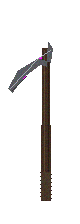
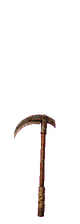
Gravemark: every class moves on the rig — five parts sheets, five weapons and the revenant installed
The slicer keys the pink card as well as the magenta and only attaches
small fragments to their nearest piece instead of merging overlapping
boxes; fit-figure maps the revenant to actor/. All 55 parts placed on
first slice; heroes draw in rig mode with the painted weapons in hand.

Claude-Session: https://claude.ai/code/session_01L4YgmXtn1U1rMqPTfw2Rbr

Changed region(s): [[0.1, 0.1875, 0.7, 0.9688]]

diff --git a/gravemark/src/00-util.js b/gravemark/src/00-util.js
@@ -5,7 +5,7 @@
 
 var GM = window.GM || (window.GM = {});
 
-GM.BUILD = "b011-realms";
+GM.BUILD = "b012-rig";
 GM.TITLE = "Gravemark";
 
 /* ---------- RNG ---------------------------------------------------------

diff --git a/gravemark/tools/slice-parts.py b/gravemark/tools/slice-parts.py
@@ -36,8 +36,12 @@ def manifest():
     return json.loads(out.stdout)
 
 def is_bg(px, tol=60):
+    """Magenta, or the deeper pink card a generator likes to lay the pieces on
+    inside the magenta (this delivery: #e9017e). Both are far from any paint
+    the figures use: reds have no blue, purples have green."""
     r, g, b = px[:3]
-    return r > 255 - tol and g < tol and b > 255 - tol
+    if r > 255 - tol and g < tol and b > 255 - tol: return True
+    return r > 190 and g < 60 and b > 100
 
 def components(img, min_area=120):
     """Connected components of non-magenta pixels (4-neighbour), as bboxes."""
@@ -65,20 +69,26 @@ def components(img, min_area=120):
     return comps
 
 def merge_close(comps, gap=6):
-    """A boot sole or a hand can split off its limb by a strip of matte;
-    merge boxes whose gaps are smaller than any real spacing on the sheet."""
-    changed = True
-    while changed:
-        changed = False
-        for i in range(len(comps)):
-            for j in range(i + 1, len(comps)):
-                a, b = comps[i]["box"], comps[j]["box"]
-                if a[0] - gap <= b[2] and b[0] - gap <= a[2] and a[1] - gap <= b[3] and b[1] - gap <= a[3]:
-                    comps[i] = {"box": (min(a[0], b[0]), min(a[1], b[1]), max(a[2], b[2]), max(a[3], b[3])),
-                                "area": comps[i]["area"] + comps[j]["area"]}
-                    del comps[j]; changed = True; break
-            if changed: break
-    return comps
+    """A boot sole or a fingertip can split off its limb by a strip of matte.
+    Attach every SMALL component to the nearest big one. Big pieces are never
+    merged with each other: on a tightly packed sheet the bounding boxes of
+    neighbouring pieces overlap even when their paint does not, and merging on
+    box overlap turned a whole sheet into one piece."""
+    if not comps: return comps
+    biggest = max(c["area"] for c in comps)
+    big = [c for c in comps if c["area"] >= biggest * 0.10]
+    small = [c for c in comps if c["area"] < biggest * 0.10]
+    def dist(a, b):
+        dx = max(0, max(a[0], b[0]) - min(a[2], b[2]))
+        dy = max(0, max(a[1], b[1]) - min(a[3], b[3]))
+        return dx + dy
+    for sm in small:
+        best = min(big, key=lambda c: dist(c["box"], sm["box"]))
+        if dist(best["box"], sm["box"]) > 40: continue      # stray speck: drop it
+        a, b = best["box"], sm["box"]
+        best["box"] = (min(a[0], b[0]), min(a[1], b[1]), max(a[2], b[2]), max(a[3], b[3]))
+        best["area"] += sm["area"]
+    return big
 
 def into_rows(comps, rows_wanted):
     """Cluster by vertical centre into the number of rows the layout has."""

diff --git a/gravemark/tools/fit-figure.py b/gravemark/tools/fit-figure.py
@@ -29,6 +29,7 @@ def key_for(name):
     base = os.path.splitext(os.path.basename(name))[0]
     if base.startswith("look-"): return "actor/" + base
     if base.startswith("b_"): return "boss/" + base
+    if base.startswith("revenant"): return "actor/" + base
     return "mon/" + base
 
 def fit(img, w, h, feet):

diff --git a/gravemark/README.md b/gravemark/README.md
@@ -177,11 +177,13 @@ out of date. With items gone there are no item icons, rune glyphs, rarity
 frames or paper-doll layers in it; the five **class looks**
 (`actor/look-<class>`, one standing figure each) took their place.
 
-**Current coverage: 159 of 493 painted.** `ART-REMAINING.md` lists the rest.
+**Current coverage: 214 of 493 painted.** `ART-REMAINING.md` lists the rest.
 All twelve bosses, all fifteen monsters, the five class looks, the hero, the
-five weapons and all eighteen backdrops are in, in the new style. Outstanding:
-the rig parts and the UI chrome (which the renderer does not consume yet — the
-UI is CSS).
+five weapons, all eighteen backdrops, the revenant and a full set of rig parts
+for every class are in, in the new style — so every hero now moves limb by
+limb on the skeleton. Outstanding: rig parts for the monsters and bosses (they
+still animate as whole paintings), and the UI chrome (which the renderer does
+not consume yet — the UI is CSS).
 
 Backdrops are drawn with `GM.drawCover`, scaled to fill the box and cropped
 rather than stretched: a 16:9 painting drawn straight into a 3:1 battle panel
@@ -283,9 +285,14 @@ node tools/grok-parts.js > GROK-PARTS.md     # the parts brief, tiered
 proved a generator asked for "only the forearm" crops a rectangle of cloth out
 of the reference — no silhouette, nothing a bone can carry. Asked for a cut-out
 puppet sheet (the figure taken apart, pieces laid out with gaps on magenta) it
-paints real pieces. `tools/slice-parts.py sheet.png hero --out DIR` finds
-the pieces, sorts them into the brief's rows, and places each on its manifest
-canvas with the joint on the pivot; `art-install.py DIR` then installs them.
+paints real pieces — the five class sheets arrived exactly that way and all
+fifty-five parts sliced first time. `tools/slice-parts.py sheet.png <class>
+--out DIR` keys the magenta AND the deeper pink card a generator lays the
+pieces on, finds the pieces (small fragments such as a boot sole attach to
+their nearest big piece; big pieces are never merged with each other, since
+on a packed sheet their boxes overlap even when their paint does not), sorts
+them into the brief's rows, and places each on its manifest canvas with the
+joint on the pivot; `art-install.py DIR` then installs them.
 `GROK-RIG.md` is the current ask. `tools/shot-swing.py . out.png` freezes
 every hero mid-swing on a different weapon for a look.
 

diff --git a/gravemark/ART-REMAINING.md b/gravemark/ART-REMAINING.md
@@ -2,7 +2,7 @@
 
 _Generated by `tools/art-check.py --remaining`. Everything below is either absent or still a placeholder; the game draws its own procedural stand-in for each._
 
-**43 of 493 assets outstanding.**
+**35 of 493 assets outstanding.**
 
 ## UI icons  (15)
 
@@ -40,39 +40,21 @@ _Generated by `tools/art-check.py --remaining`. Everything below is either absen
 | `ui/progress-fill-xp` | 256×32 | — |
 | `ui/progress-track` | 256×32 | — |
 
-## Monsters  (10)
+## Monsters  (8)
 
 | key | size | frames |
 |---|---|---|
 | `mon/ashwalker-attack` | 256×256 | 8 |
 | `mon/ashwalker-death` | 256×256 | 8 |
 | `mon/ashwalker-hit` | 256×256 | 3 |
-| `mon/ashwalker-idle` | 256×256 | 6 |
 | `mon/chill-death` | 256×256 | 8 |
 | `mon/chill-hit` | 256×256 | 3 |
 | `mon/drowned-attack` | 256×256 | 8 |
 | `mon/drowned-death` | 256×256 | 8 |
 | `mon/drowned-hit` | 256×256 | 3 |
-| `mon/drowned-idle` | 256×256 | 6 |
-
-## Hero and revenant  (5)
-
-| key | size | frames |
-|---|---|---|
-| `actor/look-pyre` | 256×256 | — |
-| `actor/look-reaver` | 256×256 | — |
-| `actor/look-sexton` | 256×256 | — |
-| `actor/look-stalker` | 256×256 | — |
-| `actor/look-warden` | 256×256 | — |
 
 ## Rarity frames and sockets  (1)
 
 | key | size | frames |
 |---|---|---|
 | `frame/portrait` | 96×96 | — |
-
-## Backdrops  (1)
-
-| key | size | frames |
-|---|---|---|
-| `bg/realm-11` | 1280×720 | — |

diff --git a/gravemark/GROK-RIG.md b/gravemark/GROK-RIG.md
@@ -1,5 +1,7 @@
 # Gravemark — Grok prompt: the revenant, and the rig parts that make the crew move
 
+**Delivered and installed (build b012-rig): all five class sheets, the five weapons and the revenant.** Kept as the template for the monster and boss parts, which use the same convention with their own rigs (see GROK-PARTS.md tiers 3-5).
+
 Same world as the class looks: bright post-apocalypse, chunky painterly figures.
 Two jobs in this pack.
 
